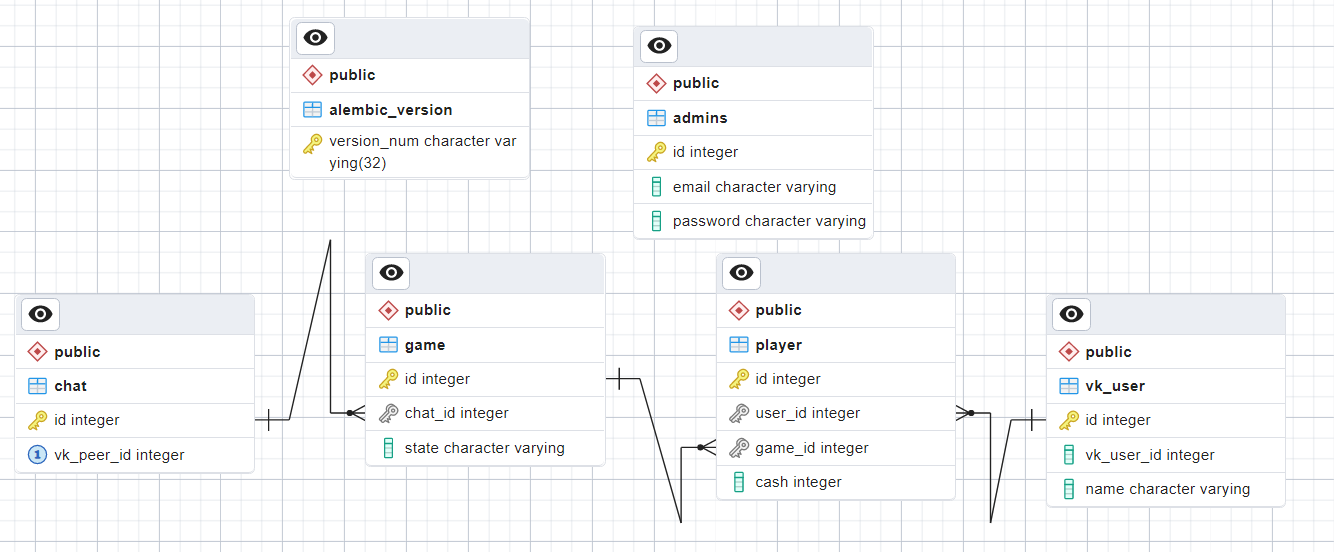
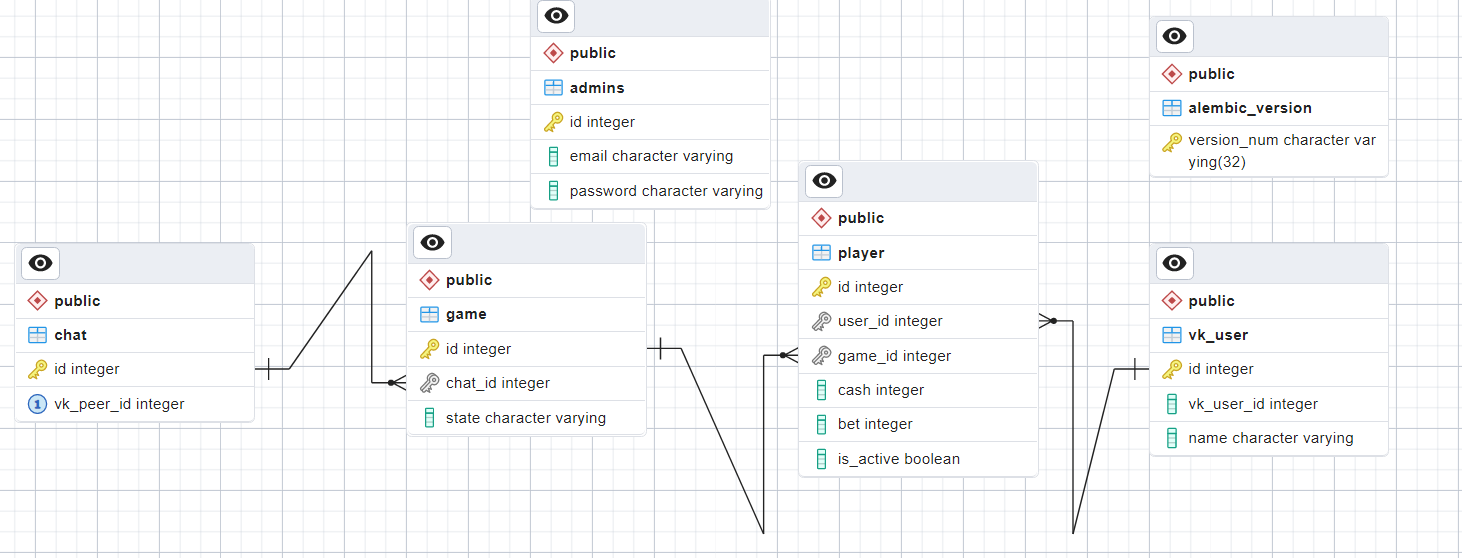
добавлено поле bet и is_active в модель Player

diff --git a/alembic/versions/c9ba4558be96_player_bet_player_is_active_added.py b/alembic/versions/c9ba4558be96_player_bet_player_is_active_added.py
@@ -1,0 +1,30 @@
+"""player.bet + player.is_active added
+
+Revision ID: c9ba4558be96
+Revises: e2b0c43ed964
+Create Date: 2023-03-02 21:09:27.398031
+
+"""
+from alembic import op
+import sqlalchemy as sa
+
+
+# revision identifiers, used by Alembic.
+revision = 'c9ba4558be96'
+down_revision = 'e2b0c43ed964'
+branch_labels = None
+depends_on = None
+
+
+def upgrade() -> None:
+    # ### commands auto generated by Alembic - please adjust! ###
+    op.add_column('player', sa.Column('bet', sa.Integer(), nullable=True))
+    op.add_column('player', sa.Column('is_active', sa.Boolean(), nullable=False))
+    # ### end Alembic commands ###
+
+
+def downgrade() -> None:
+    # ### commands auto generated by Alembic - please adjust! ###
+    op.drop_column('player', 'is_active')
+    op.drop_column('player', 'bet')
+    # ### end Alembic commands ###

diff --git a/app/game/models.py b/app/game/models.py
@@ -55,6 +55,8 @@ class PlayerModel(db):
     user_id = Column(ForeignKey("vk_user.id"), nullable=False)
     game_id = Column(ForeignKey("game.id", ondelete="CASCADE"), nullable=False)
     cash = Column(Integer, default=1000, nullable=False)
+    bet = Column(Integer, nullable=True)
+    is_active = Column(Boolean, default=True, nullable=False)
 
     game = relationship("GameModel", back_populates="players")
     vk_user = relationship("VKUserModel", back_populates="players")
